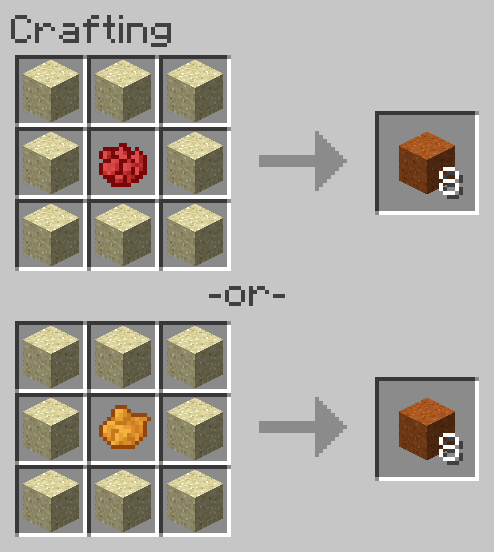
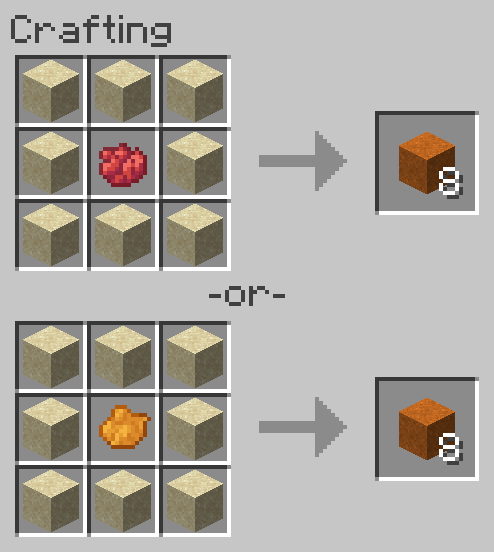
Updated to work with 1.14

diff --git a/docs/dye_red_sand_to_sand.md b/docs/dye_red_sand_to_sand.md
@@ -5,7 +5,7 @@ Allows dyeing Red Sand to regular Sand.
 
 ## Ingredients
 * 8 [Red Sand](https://minecraft.gamepedia.com/Red_Sand)
-* 1 [Bone Meal](https://minecraft.gamepedia.com/Bone_Meal) **or** 1 [Dandelion Yellow](https://minecraft.gamepedia.com/Dandelion_yellow)
+* 1 [White Dye](https://minecraft.gamepedia.com/White_Dye) **or** 1 [Yellow Dye](https://minecraft.gamepedia.com/Yellow_Dye)
 
 ## Result
 * 8 [Sand](https://minecraft.gamepedia.com/Sand)

diff --git a/docs/dye_sand_to_red_sand.md b/docs/dye_sand_to_red_sand.md
@@ -5,7 +5,7 @@ Allows dyeing regular Sand to Red Sand.
 
 ## Ingredients
 * 8 [Sand](https://minecraft.gamepedia.com/Sand)
-* 1 [Rose Red](https://minecraft.gamepedia.com/Rose_Red) **or** 1 [Orange Dye](https://minecraft.gamepedia.com/Orange_Dye)
+* 1 [Red Dye](https://minecraft.gamepedia.com/Red_Dye) **or** 1 [Orange Dye](https://minecraft.gamepedia.com/Orange_Dye)
 
 ## Result
 * 8 [Red_Sand](https://minecraft.gamepedia.com/Red_Sand)

diff --git a/README.md b/README.md
@@ -22,6 +22,12 @@ This website is useful when creating custom recipes: https://crafting.thedestruc
 * [Wool to String](./docs/wool_to_string.md)
 
 ### Changelog
+* 2020-09-06:
+
+  * Updated to work with 1.14
+    * Changed Dyes names
+    * Updated screenshots with new textures
+
 * 2020-09-05:
 
   * Added the following recipes:
